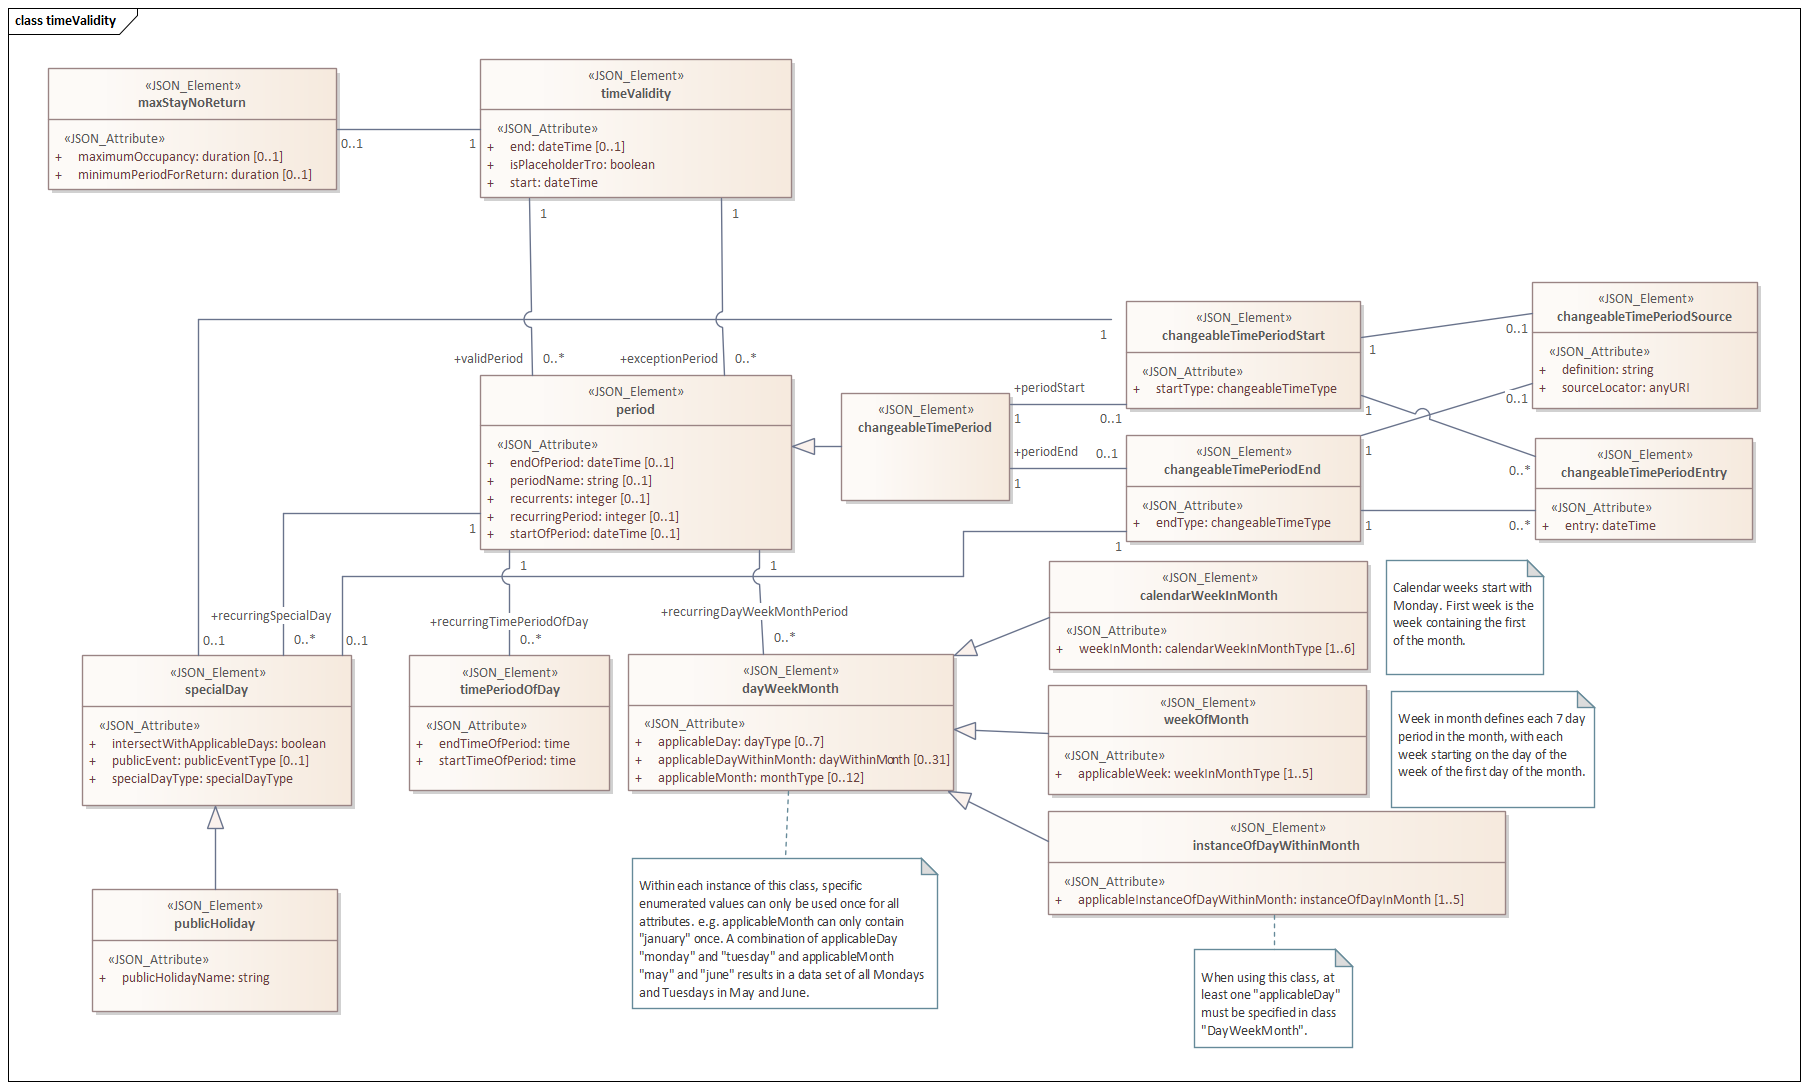
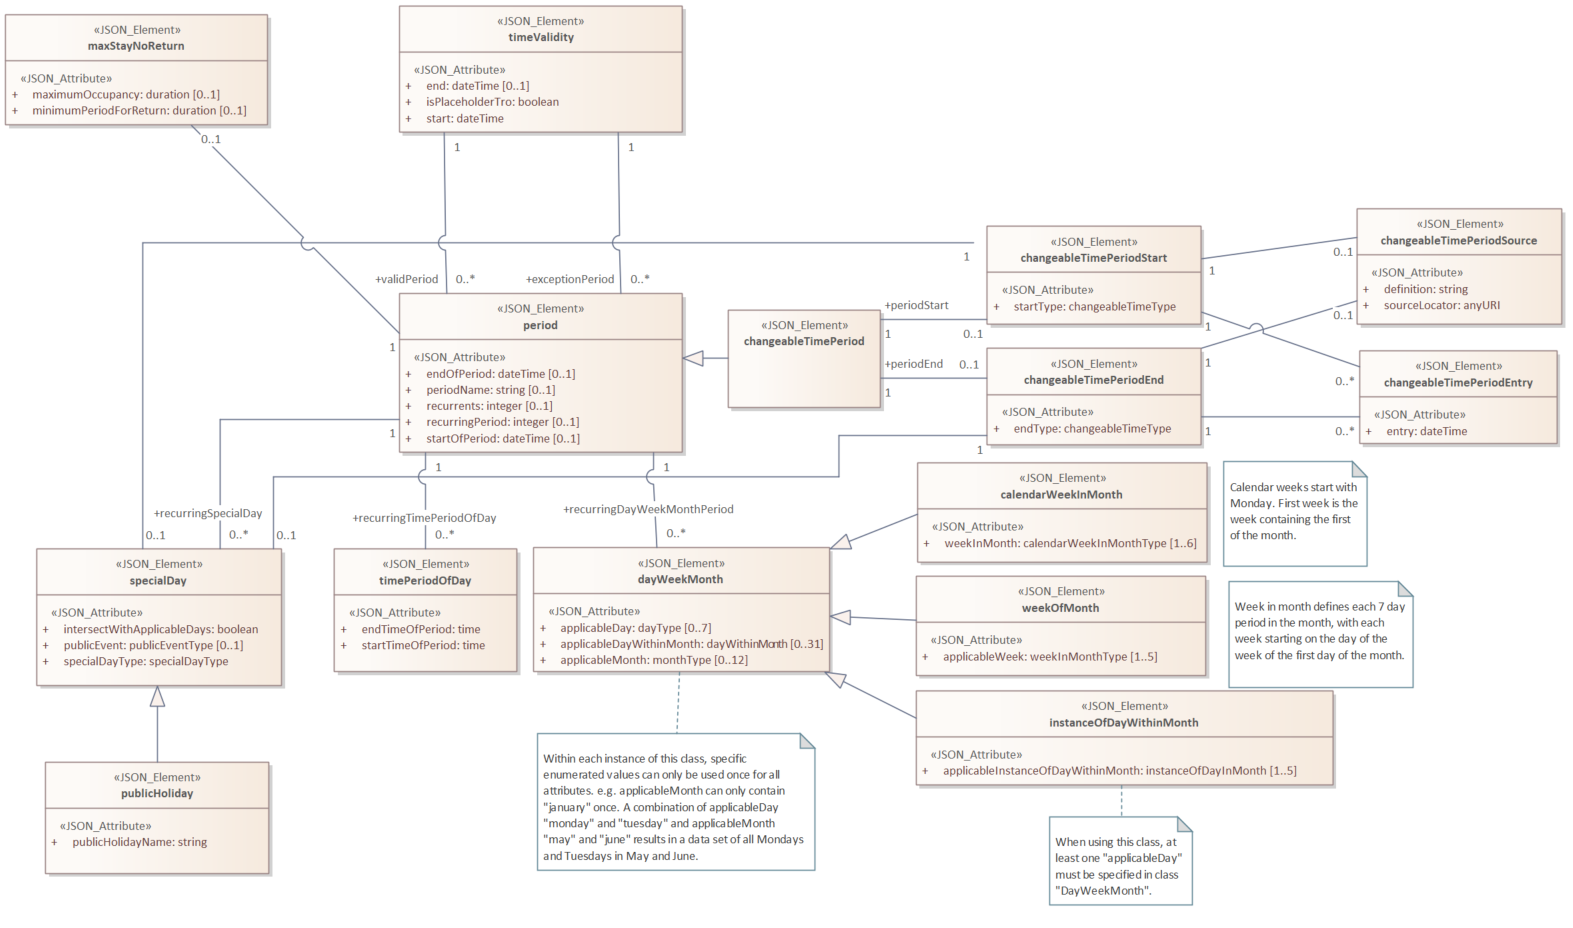
`fullRevoke` and `maxStayNoReturn` documentation update

diff --git a/data-model-user-guide/source/a_tour_of_the_data_model.rst b/data-model-user-guide/source/a_tour_of_the_data_model.rst
@@ -103,7 +103,7 @@ Note the SWA-like codes follow the SWA codes published for Street Works, see Geo
 
 .. _fig6:
 
-.. figure:: /_static/images/fig6.png
+.. figure:: /_static/images/sourceActionType.png
    :alt: Enumeration values for sourceActionType
    :width: 45%
    :align: center
@@ -119,6 +119,7 @@ Permitted values include:
 * ``errorFix`` - Indicates that the current version corrects one or more errors present in an earlier version.
 * ``amendment`` - A general indicator that the current version introduces amendments to a prior version, where the specific nature of amendment (full or partial) is not further detailed.
 * ``informationUpdate`` - Indicates an update to planned start and end date/times, for a Made record – no other information changes should be made.
+* ``fullRevoke`` - Indicates that entire order is being revoked.
 
 This classification allows systems and users to track the evolution of legal traffic regulations and their current applicability in a structured and machine-readable way.
 
@@ -952,32 +953,6 @@ For permanent TROs the end attribute may be omitted.
 
 The ``timeValidity`` model allows intermittent or variable patterns of time applicability for TRO regulations to be specified.
 
-:numref:`fig-max-stay-no-return` provides the UML class representaion of the ``maxStayNoReturn`` object.
-
-.. _fig-max-stay-no-return:
-
-.. figure:: /_static/images/max-stay-no-return.png
-   :alt: UML model representation of the maxStayNoReturn object
-   :width: 45%
-   :align: center
-
-   UML model representation of the ``maxStayNoReturn`` object
-
-The ``maxStayNoReturn`` object specifies conditions concerning the maximum duration for occupancy and the minimum time to be able to return to the same occupancy zone.
-
-* The ``maximumOccupancy`` attribute refers to the maximum occupancy duration permitted
-* The ``minimumPeriodForReturn`` attribute referes to the minimum time duration between previous occupancy and the next occupancy within a defined zone
-
-:numref:`fig37` shows the UML class representation of the period object but also note the two links at the top of the figure, which allow instances of the period object to be specified either as a valid period (i.e., an included period) or an exception period (i.e., an excluded period where the regulation is not applicable).
-
-.. note::
-    It is a matter of data quality and integrity on behalf of the data supplier to ensure the dates and times and periods of applicability are complete, consistent and coherent – there is nothing in the Data Model, per se, that stops contradictory or conflicting information being specified. Data suppliers should take appropriate steps to ensure the quality of the data supplied.
-
-The overall ``timeValidity`` period defined by the ``start`` and ``end`` properties in the ``timeValidity`` object shall strictly bound (i.e. override) any periods defined in the period object.
-
-.. note::
-    Where an invalid (exception) period overlaps (intersects) a valid period the validity shall be regarded as invalid.
-
 .. _fig37:
 
 .. figure:: /_static/images/period.png
@@ -1000,9 +975,36 @@ The optional attribute ``recurringPeriod``, if populated, indicates that the ``s
 
 To support use cases where the start and ends of recurring periods are defined by a changeable date (such as Good Friday, or Easter), the use of the ``changeableTimePeriod`` object and its children allow changeable dates to be defined, and these will overide the ``startOfPeriod`` and ``endOfPeriod`` attributes.
 
-:numref:`fig38` provides the UML class representation of the timePeriodOfDay object.
+:numref:`fig-max-stay-no-return` provides the UML class representaion of the ``maxStayNoReturn`` object.
 
-.. _fig38:
+.. _fig-max-stay-no-return:
+
+.. figure:: /_static/images/max-stay-no-return.png
+   :alt: UML model representation of the maxStayNoReturn object
+   :width: 45%
+   :align: center
+
+   UML model representation of the ``maxStayNoReturn`` object
+
+The ``maxStayNoReturn`` object specifies conditions concerning the maximum duration for occupancy and the minimum time to be able to return to the same occupancy zone.
+
+* The ``maximumOccupancy`` attribute refers to the maximum occupancy duration permitted
+* The ``minimumPeriodForReturn`` attribute referes to the minimum time duration between previous occupancy and the next occupancy within a defined zone
+
+:numref:`fig38` shows the UML class representation of the period object but also note the two links at the top of the figure, which allow instances of the period object to be specified either as a valid period (i.e., an included period) or an exception period (i.e., an excluded period where the regulation is not applicable).
+
+.. note::
+    It is a matter of data quality and integrity on behalf of the data supplier to ensure the dates and times and periods of applicability are complete, consistent and coherent – there is nothing in the Data Model, per se, that stops contradictory or conflicting information being specified. Data suppliers should take appropriate steps to ensure the quality of the data supplied.
+
+The overall ``timeValidity`` period defined by the ``start`` and ``end`` properties in the ``timeValidity`` object shall strictly bound (i.e. override) any periods defined in the period object.
+
+.. note::
+    Where an invalid (exception) period overlaps (intersects) a valid period the validity shall be regarded as invalid.
+
+
+:numref:`fig39` provides the UML class representation of the timePeriodOfDay object.
+
+.. _fig39:
 
 .. figure:: /_static/images/time-period-of-day.png
    :alt: UML model representation of the timePeriodOfDay object
@@ -1019,9 +1021,9 @@ This addresses the local challenge of daylight saving time changes, but should b
 
 The value of ``startTimeOfPeriod`` must fall before the value of ``endTimeOfPeriod`` within a one-day period.
 
-:numref:`fig39` provides the UML class representation of the ``dayWeekMonth`` Object. This object and its associated specialisation (``calendarWeekInMonth``, ``weekOfMonth``, and ``instanceOfDayWithinMonth``) enable identification of patterns of days, weeks and months.
+:numref:`fig40` provides the UML class representation of the ``dayWeekMonth`` Object. This object and its associated specialisation (``calendarWeekInMonth``, ``weekOfMonth``, and ``instanceOfDayWithinMonth``) enable identification of patterns of days, weeks and months.
 
-.. _fig39:
+.. _fig40:
 
 .. figure:: /_static/images/day-week-month.png
    :alt: UML model representation of the dayWeekMonth Object
@@ -1038,9 +1040,9 @@ In the example above applicableDay would be specified 5 times, with the values '
 
 * The ``applicableMonth`` attribute indicates months of the year to be included. The attribute may be used between zero and 12 times, with each attribute instance being a unique month of the year. Permitted values are 'january', 'february', etc.
 
-:numref:`fig40` provides the UML class representation of the ``calendarWeekInMonth`` Object. This object enables specification of calendar weeks within a month to be included. See ISO-8601 for further details. The first calendar week contains the first of the month, with the calendar week starting on a Monday. Several days of the first week of the month may occur in the previous calendar month. By construction, the last week of a preceding month can also be the first week of a subsequent month.
+:numref:`fig41` provides the UML class representation of the ``calendarWeekInMonth`` Object. This object enables specification of calendar weeks within a month to be included. See ISO-8601 for further details. The first calendar week contains the first of the month, with the calendar week starting on a Monday. Several days of the first week of the month may occur in the previous calendar month. By construction, the last week of a preceding month can also be the first week of a subsequent month.
 
-.. _fig40:
+.. _fig41:
 
 .. figure:: /_static/images/calendar-week-in-month.png
    :alt: UML model representation of the calendarWeekInMonth object
@@ -1053,9 +1055,9 @@ The ``calendarWeekInMonth`` object has one mandatory attribute:
 
 * The ``weekInMonth`` attribute indicates the Calendar week of the month to be included. The attribute shall be used between one and 6 times, with each attribute instance being a unique Calendar week in month identifier. Permitted values are 'firstWeekofMonth', 'secondWeekOfMonth' … to 'sixthWeekOfMonth'.
 
-:numref:`fig41` provides the UML class representation of the weekOfMonth object. The weekOfMonth object provides information concerning an identifiable week in a calendar month – where the week starts on the same day of the week as the month. E.g., if the first of the month is a Wednesday, each week in a month identified here also starts on a Wednesday.
+:numref:`fig42` provides the UML class representation of the weekOfMonth object. The weekOfMonth object provides information concerning an identifiable week in a calendar month – where the week starts on the same day of the week as the month. E.g., if the first of the month is a Wednesday, each week in a month identified here also starts on a Wednesday.
 
-.. _fig41:
+.. _fig42:
 
 .. figure:: /_static/images/week-of-month.png
    :alt: UML model representation of the weekOfMonth object
@@ -1068,9 +1070,9 @@ The ``weekInMonth`` object has one mandatory attribute:
 
 * The ``applicableWeek`` attribute indicates the week of the month to be included. The attribute shall be used between one and 5 times, with each attribute instance being a unique week in month identifier. Permitted values are 'firstWeek', 'secondWeek' … to 'fifthWeek'.
 
-:numref:`fig42` provides the UML class representation of the ``instanceOfDayWithinMonth`` object. The ``instanceOfDayWithinMonth`` object enables identification of instances of a day of the week in a month; for example, the second Tuesday in the month. When using this object, at least one ``applicableDay`` instance shall be specified in the related object ``dayWeekMonth``.
+:numref:`fig43` provides the UML class representation of the ``instanceOfDayWithinMonth`` object. The ``instanceOfDayWithinMonth`` object enables identification of instances of a day of the week in a month; for example, the second Tuesday in the month. When using this object, at least one ``applicableDay`` instance shall be specified in the related object ``dayWeekMonth``.
 
-.. _fig42:
+.. _fig43:
 
 .. figure:: /_static/images/instance-of-day-within-month.png
    :alt: UML model representation of the instanceOfDayWithinMonth object
@@ -1083,9 +1085,9 @@ The ``instanceOfDayWithinMonth`` object has one mandatory attribute:
 
 * The ``applicableInstanceOfDayWithinMonth`` attribute indicates the identified day instance within the month to be included. The attribute shall be used between one and 5 times, with each attribute instance of an identified day in a month. Permitted values are 'firstInstance', 'secondInstance' … to 'fifthInstance'. This can be used to define patterns such as the second and fourth Tuesday and Friday in the month.
 
-:numref:`fig43` provides the UML class representation of the ``specialDay`` object. The ``specialDay`` object indicates the characteristics of an identified (special) day.
+:numref:`fig44` provides the UML class representation of the ``specialDay`` object. The ``specialDay`` object indicates the characteristics of an identified (special) day.
 
-.. _fig43:
+.. _fig44:
 
 .. figure:: /_static/images/special-day.png
    :alt: UML model representation of the specialDay object
@@ -1102,9 +1104,9 @@ The ``specialDay`` object has three attributes:
 
 * The optional ``publicEvent`` attribute which indicates what type of public event is associated with this ``specialDay``. Permitted values are defined in the extensive ``publicEventType`` enumeration list. Values include: 'agriculturalShow', 'airShow, 'artEvent', etc.
 
-:numref:`fig44` provides the UML class representation of the ``publicHoliday`` object. The object publicHoliday with its mandatory attribute ``publicHolidayName`` enables the public holiday to be named.
+:numref:`fig45` provides the UML class representation of the ``publicHoliday`` object. The object publicHoliday with its mandatory attribute ``publicHolidayName`` enables the public holiday to be named.
 
-.. _fig44:
+.. _fig45:
 
 .. figure:: /_static/images/public-holiday.png
    :alt: UML model representation of the publicHoliday object
@@ -1113,9 +1115,9 @@ The ``specialDay`` object has three attributes:
 
    UML model representation of the ``publicHoliday`` object
 
-:numref:`fig45` provides the UML class representation of the ``changeableTimePeriod`` object.
+:numref:`fig46` provides the UML class representation of the ``changeableTimePeriod`` object.
 
-.. _fig45:
+.. _fig46:
 
 .. figure:: /_static/images/changeable-time-period.png
    :alt: UML model representation of the changeableTimePeriod object
@@ -1124,11 +1126,11 @@ The ``specialDay`` object has three attributes:
 
    UML model representation of the ``changeableTimePeriod`` object
 
-:numref:`fig46` provides the UML class representation of the ``changeableTimePeriodStart`` object. There is a mirror image object called ``changeableTimePeriodEnd``. Both objects work in a similar manner. A 'fuzzy time' period is defined in several European standards as the time period with non-precise characteristics. However, this is actually a poor definition for the concept. The actual concept is a time qualification that is not fixed and may be variable in nature. The variation may be highly predictable (such as dusk or dawn), or defined by external factors and authorities (such as school terms times in a specific locality). Hence in the D-TRO Data Specification we do not use the term 'Fuzzy Period', but rather ``changeableTimePeriod``.
+:numref:`fig47` provides the UML class representation of the ``changeableTimePeriodStart`` object. There is a mirror image object called ``changeableTimePeriodEnd``. Both objects work in a similar manner. A 'fuzzy time' period is defined in several European standards as the time period with non-precise characteristics. However, this is actually a poor definition for the concept. The actual concept is a time qualification that is not fixed and may be variable in nature. The variation may be highly predictable (such as dusk or dawn), or defined by external factors and authorities (such as school terms times in a specific locality). Hence in the D-TRO Data Specification we do not use the term 'Fuzzy Period', but rather ``changeableTimePeriod``.
 
 Use of the ``changeableTimePeriodStart`` object and/or the ``changeableTimePeriodEnd`` object enable a period to be defined using a variable date time start or end or both.
 
-.. _fig46:
+.. _fig47:
 
 .. figure:: /_static/images/changeable-time-period-start.png
    :alt: UML model representation of the changeableTimePeriodStart object
@@ -1137,7 +1139,7 @@ Use of the ``changeableTimePeriodStart`` object and/or the ``changeableTimePerio
 
    UML model representation of the ``changeableTimePeriodStart`` object
 
-.. _fig47:
+.. _fig48:
 
 .. figure:: /_static/images/changeable-time-period-end.png
    :alt: UML model representation of the changeableTimePeriodEnd object
@@ -1158,9 +1160,9 @@ The ``changeableTimePeriodStart`` and ``changeableTimePeriodEnd`` objects define
 
 * By use of the linkage between a ``changeableTimePeriodStart`` object and/or ``changeableTimePeriodEnd`` object with the ``specialDay`` object - i.e. indicating that the start and/or end is a special day (e.g. Easter).
 
-:numref:`fig48` provides the UML class representation of the ``changeableTimePeriodSource`` object.
+:numref:`fig49` provides the UML class representation of the ``changeableTimePeriodSource`` object.
 
-.. _fig48:
+.. _fig49:
 
 .. figure:: /_static/images/changeable-time-period-source.png
    :alt: UML model representation of the changeableTimePeriodSource object
@@ -1177,9 +1179,9 @@ The ``changeableTimePeriodSource`` object has two mandatory attributes:
 
 Each instance of ``changeableTimePeriodSource`` will have a definition to explain the nature of the source of data that provides the accurate timings. E.g. for a changeable time period of school term times, it could be a Government website which shares these dates. The ``sourceLocator`` will then provide the specific data elements from the hyperlink of the website through the URI.
 
-:numref:`fig49` provides the UML class representation of the ``changeableTimePeriodEntry`` object.
+:numref:`fig50` provides the UML class representation of the ``changeableTimePeriodEntry`` object.
 
-.. _fig49:
+.. _fig50:
 
 .. figure:: /_static/images/changeable-time-period-entry.png
    :alt: UML model representation of the changeableTimePeriodEntry object
